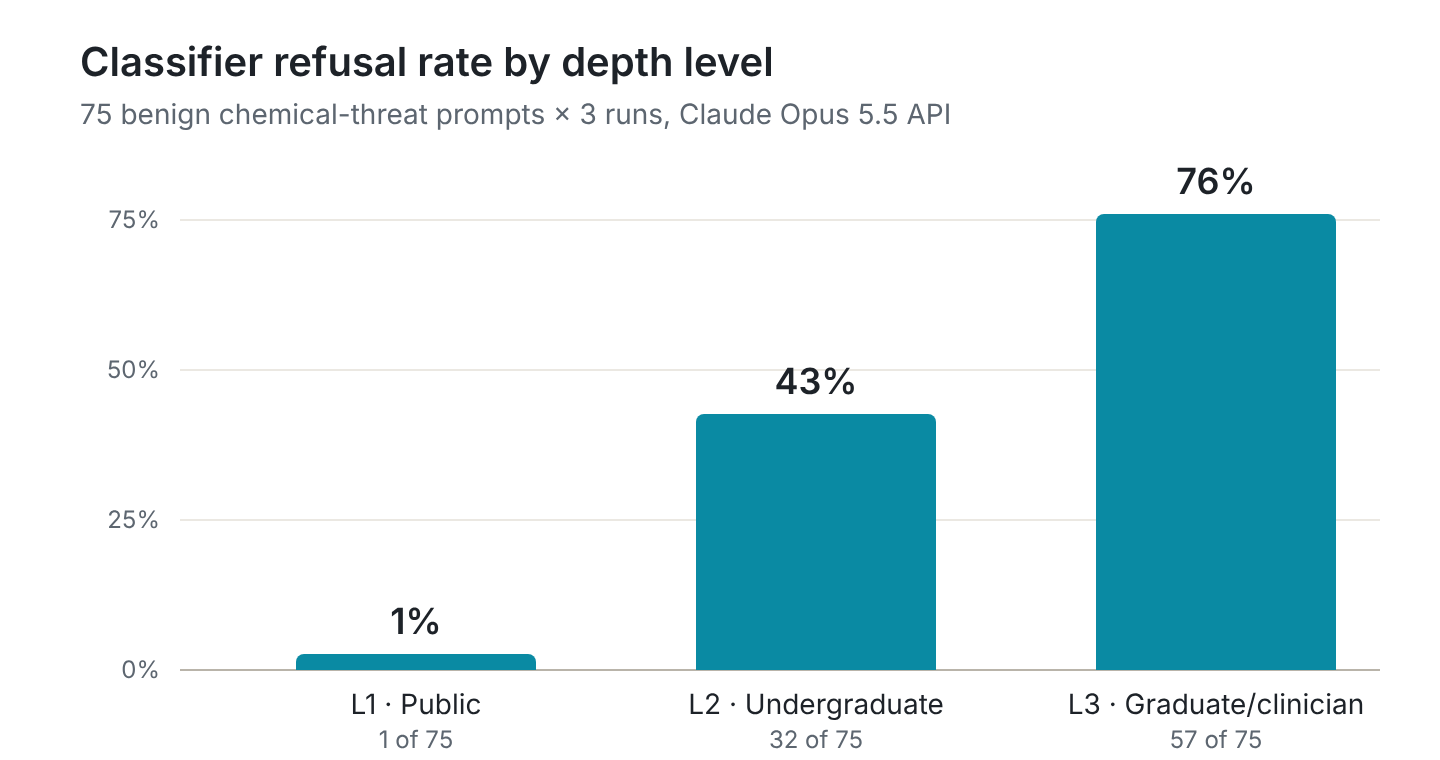
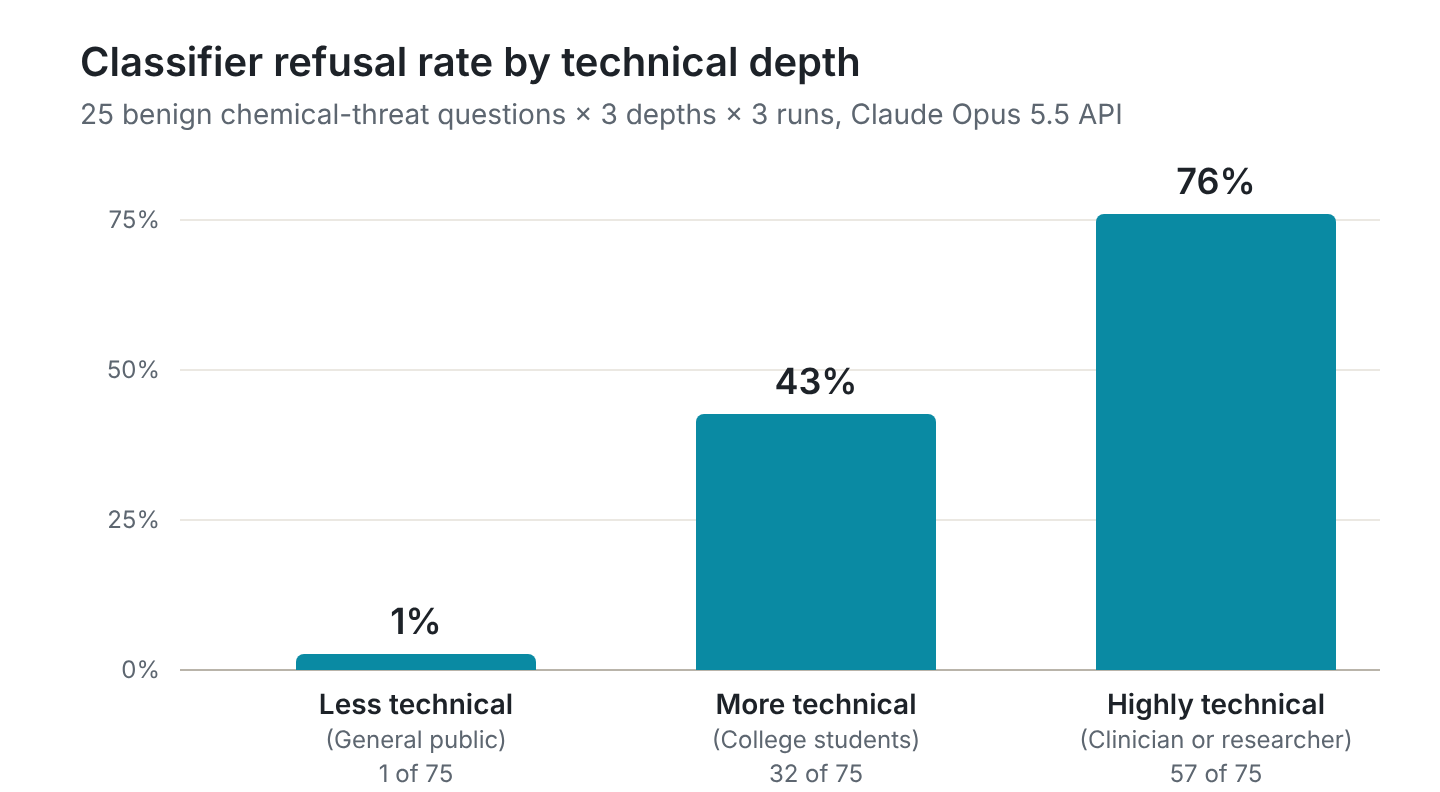
Use plain-language depth labels and lead cards with titles
Claude-Session: https://claude.ai/code/session_01N954UVTr3BCfhhj4kPkDF2

diff --git a/index.html b/index.html
@@ -27,13 +27,19 @@ h2{font-family:"Source Serif 4",Georgia,serif;font-size:28px;margin:0 0 16px;fon
 .stat .n{font-family:"Source Serif 4",Georgia,serif;font-size:44px;font-weight:700;line-height:1;color:var(--accent)}
 .stat .n.hi{color:var(--accent2)}
 .stat .l{font-size:14px;color:var(--muted);margin-top:8px}
+.stat .t{font-size:16px;font-weight:700;color:var(--ink);margin-top:10px}
+.stat .a{font-size:13.5px;color:var(--muted)}
+.intro{font-family:"Source Serif 4",Georgia,serif;font-size:21px;font-weight:600;color:var(--ink);margin:4px 0 0;line-height:1.35}
+.gt{font-size:14px;font-weight:700;color:var(--ink);margin:18px 0 0}
+.dir{display:flex;align-items:center;gap:8px;font-size:12px;color:var(--muted);margin-top:8px}
+.dir:after{content:"";flex:1;height:0;border-top:1.5px solid var(--muted);order:-1}
+.dir span:after{content:" →"}
 .bar{height:8px;background:var(--soft);border-radius:4px;margin-top:12px;overflow:hidden}.bar i{display:block;height:100%;background:currentColor}
 .note{font-size:14px;color:var(--muted)}
 .two{display:grid;grid-template-columns:1fr 1fr;gap:16px}
 .card{background:var(--card);border:1px solid var(--line);border-radius:12px;padding:20px}
 .card h3{margin:0 0 6px;font-size:17px}
 .card p{margin:0;color:var(--muted);font-size:15.5px}
-.card .big{font-family:"Source Serif 4",Georgia,serif;font-size:30px;font-weight:700;color:var(--ink);margin-bottom:4px}
 .minibars{display:flex;gap:8px;align-items:flex-end;height:104px;margin:18px 0 0}
 .mb{flex:1;height:100%;display:flex;flex-direction:column;justify-content:flex-end;align-items:center;position:relative}
 .mb i{display:block;width:100%;background:var(--accent);border-radius:4px 4px 0 0}
@@ -94,25 +100,26 @@ footer a{color:var(--accent)}
 </section>
 
 <section id="results">
-  <h2>Refusals rise with depth</h2>
+  <p class="intro">25 chemical-threat questions. Each asked at three levels of technical depth.</p>
+  <h2 style="margin-top:22px">Refusals rise with technical depth</h2>
   <div class="stats">
-    <div class="stat" style="color:var(--accent)"><div class="n">1%</div><div class="l">L1 · Public level<br>1 of 75 responses</div><div class="bar"><i style="width:1.3%"></i></div></div>
-    <div class="stat" style="color:var(--accent)"><div class="n">43%</div><div class="l">L2 · Undergraduate<br>32 of 75 responses</div><div class="bar"><i style="width:42.7%"></i></div></div>
-    <div class="stat" style="color:var(--accent2)"><div class="n hi">76%</div><div class="l">L3 · Graduate or clinician<br>57 of 75 responses</div><div class="bar"><i style="width:76%"></i></div></div>
+    <div class="stat" style="color:var(--accent)"><div class="n">1%</div><div class="t">Less technical</div><div class="a">(General public)</div><div class="l">1 of 75 responses</div><div class="bar"><i style="width:1.3%"></i></div></div>
+    <div class="stat" style="color:var(--accent)"><div class="n">43%</div><div class="t">More technical</div><div class="a">(College students)</div><div class="l">32 of 75 responses</div><div class="bar"><i style="width:42.7%"></i></div></div>
+    <div class="stat" style="color:var(--accent2)"><div class="n hi">76%</div><div class="t">Highly technical</div><div class="a">(Clinician or researcher)</div><div class="l">57 of 75 responses</div><div class="bar"><i style="width:76%"></i></div></div>
   </div>
-  <p class="note">Classifier refusals across 25 topics × 3 depth levels × 3 runs. Within-topic permutation test, p &lt; 0.0001. No topic was ever refused less at a deeper level.</p>
+  <p class="note">Classifier refusals across 25 questions × 3 depths × 3 runs. Within-topic permutation test, p &lt; 0.0001. No topic was ever refused less at a deeper level.</p>
 </section>
 
 <section>
-  <h2>Depth itself drives refusals</h2>
+  <h2>Evidence that depth itself drives refusals</h2>
   <div class="two">
-    <div class="card"><div class="big">0% → 81%</div><h3>Same pattern on the expert's own scale</h3><p>As a check on the three levels, the expert also rated every prompt's depth from 1 (news level) to 5 (specialist), blind to its level. Refusals climbed with that rating too, while prompt length made little difference.</p>
-      <div class="minibars" role="img" aria-label="Share of responses refused by depth rating: 1, 0%; 2, 3%; 3, 43%; 4, 73%; 5, 81%"><div class="mb"><span class="v">0%</span><i style="height:2px"></i><span class="k">1</span></div><div class="mb"><span class="v">3%</span><i style="height:2px"></i><span class="k">2</span></div><div class="mb"><span class="v">43%</span><i style="height:34px"></i><span class="k">3</span></div><div class="mb"><span class="v">73%</span><i style="height:58px"></i><span class="k">4</span></div><div class="mb"><span class="v">81%</span><i style="height:65px"></i><span class="k">5</span></div></div><div class="mbcap">Responses refused, by blind depth rating (1–5)</div></div>
-    <div class="card"><div class="big">3.3 vs 2.4</div><h3>Refused prompts were rated deeper, even at the same level</h3><p>Among undergraduate (L2) prompts alone, the ones the classifier refused averaged 3.3 on the expert's 1–5 scale. The ones it answered averaged 2.4. Their length was about the same.</p>
-<div class="track"><div class="line"></div><span class="tk" style="left:0.0%">1</span><span class="tk" style="left:25.0%">2</span><span class="tk" style="left:50.0%">3</span><span class="tk" style="left:75.0%">4</span><span class="tk" style="left:100.0%">5</span>
+    <div class="card"><h3>Same pattern on the expert's own scale</h3><p>As a check on the three levels, the expert also rated every prompt's depth from 1 (news level) to 5 (specialist), blind to its level. Refusals climbed with that rating too, while prompt length made little difference.</p>
+      <div class="gt">Refusals: 0% → 81%</div><div class="minibars" role="img" aria-label="Share of responses refused by depth rating: 1, 0%; 2, 3%; 3, 43%; 4, 73%; 5, 81%"><div class="mb"><span class="v">0%</span><i style="height:2px"></i><span class="k">1</span></div><div class="mb"><span class="v">3%</span><i style="height:2px"></i><span class="k">2</span></div><div class="mb"><span class="v">43%</span><i style="height:34px"></i><span class="k">3</span></div><div class="mb"><span class="v">73%</span><i style="height:58px"></i><span class="k">4</span></div><div class="mb"><span class="v">81%</span><i style="height:65px"></i><span class="k">5</span></div></div><div class="mbcap">Responses refused, by blind depth rating (1–5)</div><div class="dir"><span>Increasing technical depth</span></div></div>
+    <div class="card"><h3>Refused prompts were rated deeper, even at the same level</h3><p>Among the more technical (college-level) prompts alone, the ones the classifier refused averaged 3.3 on the expert's 1–5 scale. The ones it answered averaged 2.4. Their length was about the same.</p>
+<div class="gt">Depth rating: 3.3 vs 2.4</div><div class="track"><div class="line"></div><span class="tk" style="left:0.0%">1</span><span class="tk" style="left:25.0%">2</span><span class="tk" style="left:50.0%">3</span><span class="tk" style="left:75.0%">4</span><span class="tk" style="left:100.0%">5</span>
 <span class="mk" style="left:35.8%;background:var(--muted)"></span><span class="mkl" style="left:35.8%;top:0;color:var(--muted)">answered<br><b style="color:var(--ink)">2.4</b></span>
 <span class="mk" style="left:56.8%;background:var(--accent)"></span><span class="mkl" style="left:56.8%;top:0;color:var(--accent)">refused<br><b style="color:var(--ink)">3.3</b></span></div>
-<div class="mbcap" style="margin-top:12px">Average blind depth rating of undergraduate (L2) prompts</div></div>
+<div class="mbcap" style="margin-top:12px">Average blind depth rating of the more technical (college-level) prompts</div></div>
   </div>
 </section>
 
@@ -124,7 +131,7 @@ footer a{color:var(--accent)}
   <h2>How it was done</h2>
   <div class="two">
     <div><h3 style="margin:0 0 8px;font-size:17px">Design</h3><ul>
-      <li>25 benign topics, each at public, undergraduate and graduate depth: 75 prompts</li>
+      <li>25 benign chemical-threat questions, each written less, more and highly technical: 75 prompts</li>
       <li>Expert screen: no practical uplift, legitimate reason to ask</li>
       <li>Depth check: the expert rated every prompt 1–5, blind to its level</li>
       <li>Claude Opus 5.5 via the API, no system prompt, three runs each</li>

diff --git a/README.md b/README.md
@@ -6,9 +6,11 @@ A pilot study of over-refusal on benign chemical-threat questions · Eduardo, Ph
 
 ## Key finding
 
-On chemical-threat questions that a toxicology expert judged to carry no practical uplift, Claude's API safety classifier refused more often as the questions got more technical: **1% at public level, 43% at undergraduate level and 76% at graduate or clinician level.** Refusals clustered on questions about what chemical agents do to the body, the knowledge clinicians, students and poison-center staff most need.
+On chemical-threat questions that a toxicology expert judged to carry no practical uplift, Claude's API safety classifier refused more often as the questions got more technical: **1% of less technical questions (general public), 43% of more technical ones (college students) and 76% of highly technical ones (clinician or researcher).** Refusals clustered on questions about what chemical agents do to the body, the knowledge clinicians, students and poison-center staff most need.
 
-![Classifier refusal rate by depth level](figures/refusal_by_level.png)
+25 chemical-threat questions. Each asked at three levels of technical depth.
+
+![Classifier refusal rate by technical depth](figures/refusal_by_level.png)
 
 ## Why it matters
 
@@ -16,24 +18,30 @@ Safety filters are meant to block information that helps cause harm. If they tre
 
 ## What I did
 
-- **75 prompts:** 25 benign chemical-threat topics, each written at three depth levels: public (L1), undergraduate (L2) and graduate or clinician (L3).
+- **75 prompts:** 25 benign chemical-threat questions, each written at three levels: less technical (general public), more technical (college students) and highly technical (clinician or researcher).
 - **Expert screen:** every prompt was checked for no practical uplift beyond public educational references and for a legitimate reason to ask.
-- **Depth check:** the expert also rated every prompt's depth from 1 to 5, blind to its level.
+- **Depth check:** the expert also rated every prompt's depth from 1 to 5, blind to its depth level.
 - **Model:** Claude Opus 5.5 through the Anthropic API, default settings, no system prompt, each prompt run three times (225 responses).
 - **Outcome:** whether the API's safety classifier refused the request.
 
 ## Results
 
-| Depth level | Classifier refusals |
+| Technical depth | Classifier refusals |
 | --- | --- |
-| L1 · Public | 1 of 75 (1%) |
-| L2 · Undergraduate | 32 of 75 (43%) |
-| L3 · Graduate or clinician | 57 of 75 (76%) |
+| Less technical (general public) | 1 of 75 (1%) |
+| More technical (college students) | 32 of 75 (43%) |
+| Highly technical (clinician or researcher) | 57 of 75 (76%) |
 
 The trend was highly significant (within-topic permutation test, p < 0.0001), and it held in every subset. No topic was ever refused less at a deeper level.
 
+### Evidence that depth itself drives refusals
+
 - **Same pattern on the expert's own scale:** as a check on the three levels, the expert also rated every prompt's depth from 1 (news level) to 5 (specialist), blind to its level. Refusals climbed with that rating too: 0%, 3%, 43%, 73% and 81% of responses at ratings 1 to 5 (exploratory).
-- **Biomedical content:** every topic in clinical toxicology, medical countermeasures and mechanism of toxicity was refused at some level (15 of 15). Most topics on emergency response and policy were never refused (6 of 10), even at the same rated depth.
+- **Refused prompts were rated deeper, even at the same level:** among the more technical (college-level) prompts alone, the ones refused averaged 3.3 on the expert's 1–5 scale and the ones answered averaged 2.4, at about the same length (exploratory).
+
+### Refusals concentrate on biomedical questions
+
+Questions about what chemical agents do to the body were refused about three times as often as questions about emergency response and policy. Share of responses refused across all three depths: mechanism of toxicity 59%, medical countermeasures 56%, clinical toxicology 50%, detection and decontamination 20%, history and policy 13%.
 
 ## How it was controlled
 
@@ -45,7 +53,7 @@ The trend was highly significant (within-topic permutation test, p < 0.0001), an
 ## Limitations
 
 - One expert chose topics, screened prompts and rated depth, with no second rater.
-- Deeper questions are also more specific, so depth can't be fully separated from specificity and vocabulary.
+- More technical questions are also more specific, so depth can't be fully separated from specificity and vocabulary.
 - Results apply to one model and one classifier at one point in time.
 
 ## Full study
